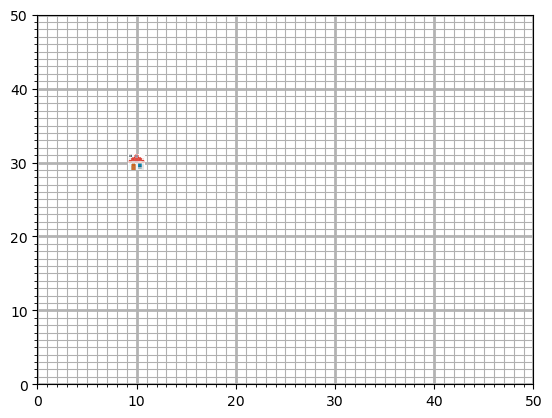
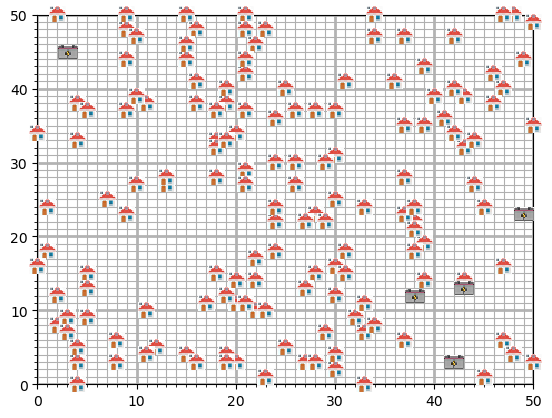
Laden van batterijen in plot werkt

diff --git a/app/Main.py b/app/Main.py
@@ -44,11 +44,20 @@ def draw(wijk):
     # https://www.science-emergence.com/Articles/How-to-insert-an-image-a-picture-or-a-photo-in-a-matplotlib-figure/
     # https://gist.github.com/ppizarror/a36d214fd38a029cb80b7363bb133023
     # Fotos toevoegen
-    photo_house = mpimg.imread('../images/huis_mini_mini.png')
-    imagebox = OffsetImage(photo_house, zoom=1)
-    addition_photo = AnnotationBbox(imagebox, (10, 30), frameon=False)
-    ax.add_artist(addition_photo)
-    plt.draw()
+    for huis in objects['huizen']:
+        huis_locatie = huis.get_locatie()
+        photo_house = mpimg.imread('../images/huis_mini_mini.png')
+        imagebox = OffsetImage(photo_house, zoom=1)
+        addition_photo = AnnotationBbox(imagebox, (int(huis_locatie[0]), int(huis_locatie[1])), frameon=False)
+        ax.add_artist(addition_photo)
+
+    for batterij in objects['batterijen']:
+        batterij_locatie = batterij.get_locatie().replace('[', '').replace(']', '').split(',')
+        photo_battery = mpimg.imread('../images/batterij_mini_mini.png')
+        imagebox2 = OffsetImage(photo_battery, zoom=1)
+        addition_photo2 = AnnotationBbox(imagebox2, (int(batterij_locatie[0]), int(batterij_locatie[1])), frameon=False)
+        ax.add_artist(addition_photo2)
+
     plt.savefig(f'{root_path}/images/add_picture_matplotlib_figure.png',bbox_inches='tight', transparent=True)
 
     # Toon de plot
